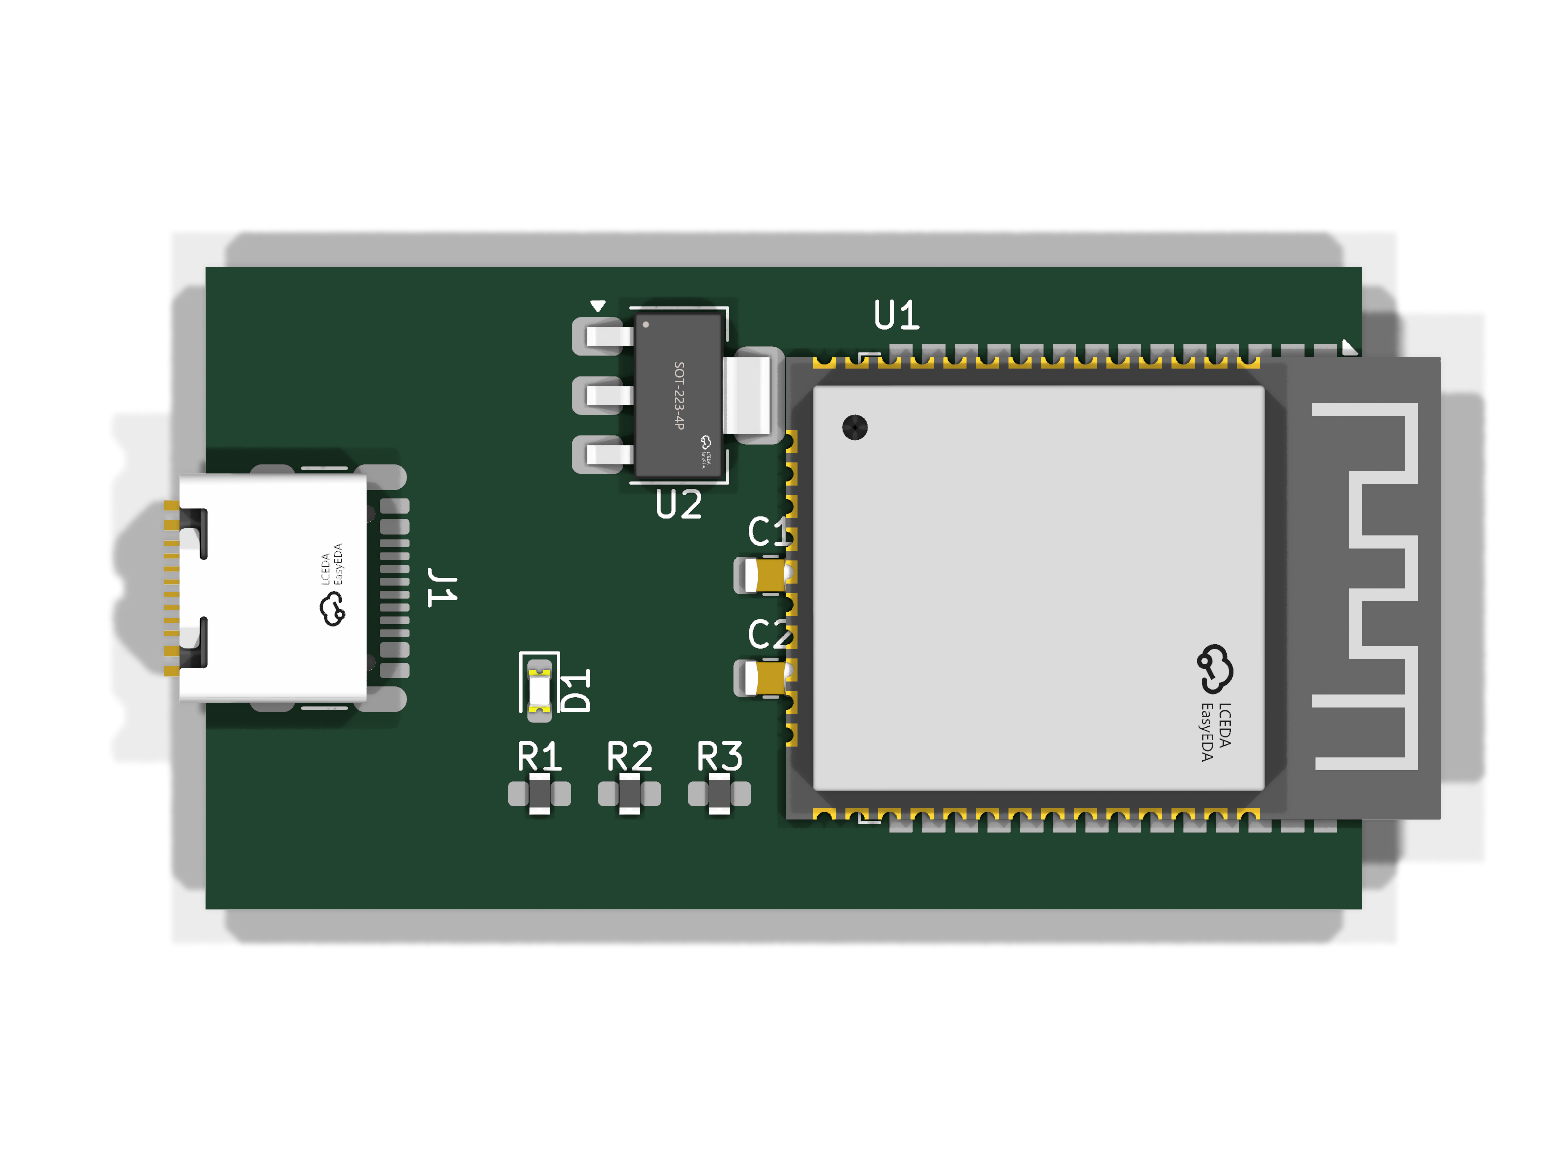
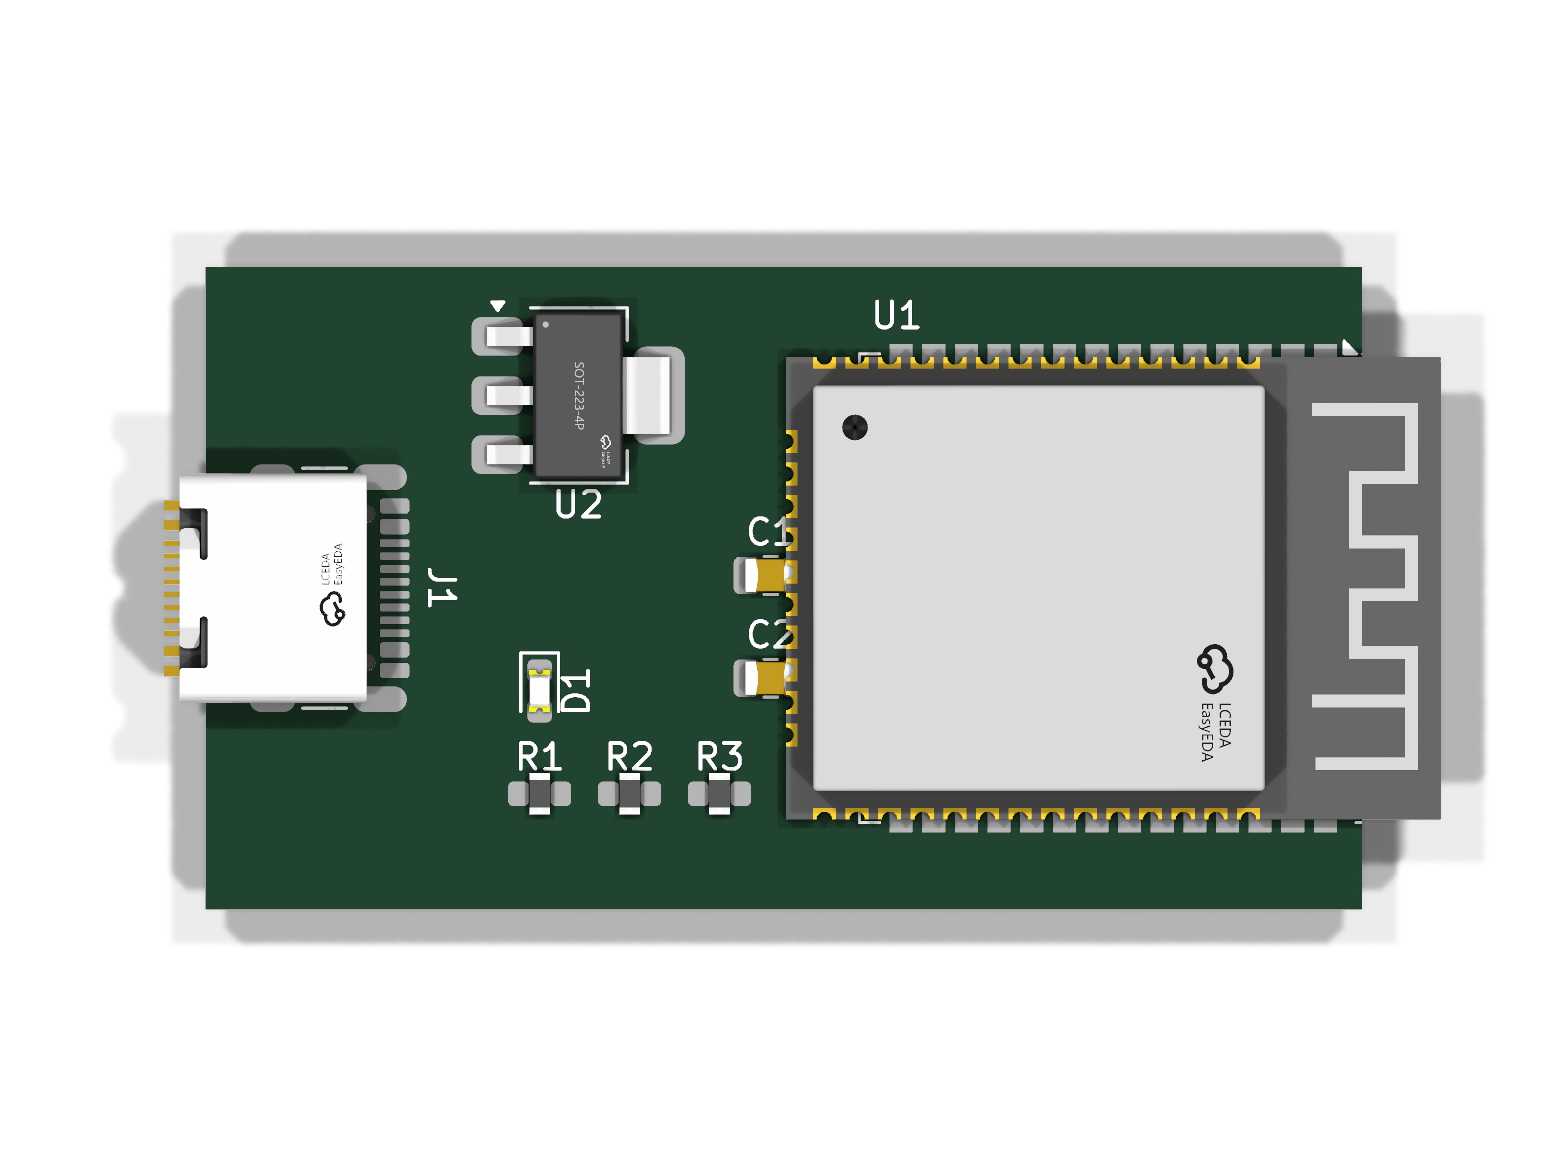
fix(esp32): U2 clear of the WROOM body + corrected EasyEDA prints (home was an error page)

Changed region(s): [[0.2812, 0.2449, 0.5, 0.4592]]

diff --git a/skills/kicad-pcb/scripts/esp32_example.py b/skills/kicad-pcb/scripts/esp32_example.py
@@ -56,7 +56,7 @@ PLACEMENT = [
     # rot 270: the receptacle mouth (footprint +Y) faces the LEFT board edge;
     # gen_board then slides J1 so its "PCB Edge" line sits on x = 0
     ("Connector_USB", "USB_C_Receptacle_GCT_USB4105-xx-A_16P_TopMnt_Horizontal", "J1", 5.5, 12.5, 270),
-    ("Package_TO_SOT_SMD", "SOT-223-3_TabPin2", "U2", 18.4, 5.0, 0),
+    ("Package_TO_SOT_SMD", "SOT-223-3_TabPin2", "U2", 14.5, 5.0, 0),
     ("Capacitor_SMD", "C_0805_2012Metric", "C1", 22.0, 12.0, 0),
     ("Capacitor_SMD", "C_0805_2012Metric", "C2", 22.0, 16.0, 0),
     ("Resistor_SMD", "R_0603_1608Metric", "R1", 13.0, 20.5, 0),
